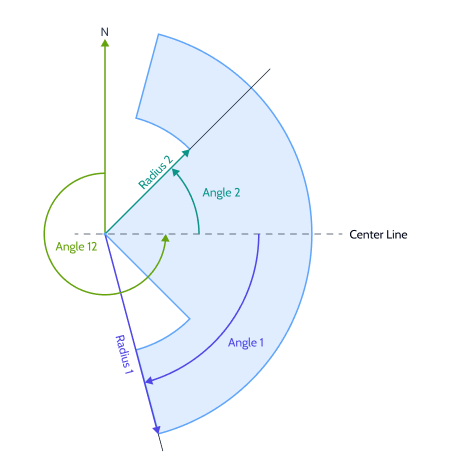
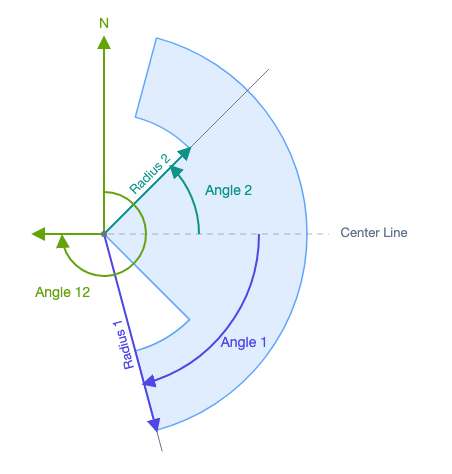
Specify default values for .cup format, include illustration (#18)
* Specify default values for .cup format, include illustration

* docs(cup): correct ObsZone defaults and A12 direction

Style defaults to symmetric, R1 and A1 defaults depend on the zone
shape, A12 is a clockwise bearing towards the turnpoint (zone at A12+180).
Explains how R1/A1/R2/A2 build the zone and the Line key.

* docs(cup): require Style, R1 and A1

Programs fill in missing zone values differently, so writers must
always write them. R2, A2 and A12 default to 0. Line=1 marks a line.
Bump spec to 1.2.2.

* docs(cup): redraw sector picture with clockwise A12

---------

diff --git a/CUP_file_format.md b/CUP_file_format.md
@@ -1,15 +1,15 @@
 ---
 title: SeeYou CUP file format 
 description: SeeYou CUP file format specification file, Copyright © 2024, Naviter d.o.o. All Rights Reserved
-date: 2026-11-03
-version: 1.2.1
+date: 2026-11-04
+version: 1.2.2
 header: ${title} - Naviter d.o.o.
 footer: Page ${pageNo} of ${pageCount}
 ---
 
 # SeeYou CUP File Format
 
-*Copyright © 2025-10-07, Naviter d.o.o. All Rights Reserved. Version 1.2.1*
+*Copyright © 2026-11-04, Naviter d.o.o. All Rights Reserved. Version 1.2.2*
 
 SeeYou CUP Waypoint format is a simple comma separated text file. The extension is .CUP
 
@@ -241,7 +241,7 @@ This defines first turnpoint (after takeoff). Format must be the same as for the
 
 ### Options and Observation Zones
 
-The line with the definition of the description and the list of task points is followed by "Task Options" line, this line is successively followed by "Observation Zone" lines for the turn points specified in the task above. Note that if any of the data is missing, default settings will be used instead. Here an example:
+The line with the definition of the description and the list of task points is followed by "Task Options" line, this line is successively followed by "Observation Zone" lines for the turn points specified in the task above. Some observation zone values are required, the others have defaults. See [Possible Values in Observation Zone Line](#possible-values-in-observation-zone-line). Here an example:
 
 ```
 Options,NoStart=12:34:56,TaskTime=01:45:12,WpDis=False,NearDis=0.7km,NearAlt=300.0m
@@ -293,27 +293,42 @@ Options line must start with "Options" keyword.
 
 #### Possible Values in Observation Zone Line
 
+Observation zone line must start with "ObsZone" keyword. `Style`, `R1` and `A1` are required, because programs fill in missing ones differently. The other values are optional.
+
+A task point without an Observation Zone line gets the default zone of the program that reads the file. In SeeYou these are the user's default zones.
+
+This schematic shows all the parameters available to define the shape of the turnpoint sector:
+
+![SectorDefinition](./images/SectorDefinition.png)
+
+The zone is built around a center line through the turnpoint. `Style` sets the direction of the center line. The zone is made of two parts:
+
+- the outer sector: between `R2` and `R1`, up to `A1` degrees on each side of the center line;
+- the inner sector: inside `R2`, up to `A2` degrees on each side of the center line.
+
+Distances are numbers with a unit, like `500m`, `3km` or `1.5nm`. A number without a unit is in meters. Angles are in degrees, decimals are allowed.
+
 - `ObsZone`
-  Consecutive number of a waypoint (0 = Start)
+  Consecutive number of the task point (0 = Start).
 - `Style`
-  Observation Zone Direction
-  - 0 - Fixed value
-  - 1 - Symmetrical
+  Required. Direction of the center line.
+  - 0 - Fixed, set by `A12`
+  - 1 - Symmetrical: the zone lies on the bisector of the incoming and outgoing legs, on the outside of the turn. At the start it works as "To next point", at the finish as "To previous point".
   - 2 - To next point
   - 3 - To previous point
   - 4 - To start point
 - `R1`
-  Radius 1
+  Required. Outer radius. When `Line=1`, this is half the length of the line.
 - `A1`
-  Angle 1 in degrees
+  Required. Half the angle of the outer sector, measured from the center line to each side. 45 gives a 90° (FAI) sector, 180 gives a full circle (cylinder).
 - `R2`
-  Radius 2
+  Inner radius. The outer sector starts at `R2`. The default value is 0, meaning the outer sector reaches all the way to the turnpoint.
 - `A2`
-  Angle 2 in degrees
+  Half the angle of the inner sector, inside `R2`. 180 makes the whole `R2` circle part of the zone. The default value is 0, meaning nothing inside `R2` is part of the zone.
 - `A12`
-  Angle 12
+  Used only when `Style=0`. Bearing of the center line, clockwise from north, pointing from the zone towards the turnpoint. The zone lies on the opposite side, at `A12` + 180. For example, `A12=0` puts the zone south of the turnpoint. The default value is 0.
 - `Line`
-  Boolean. Line=1 means that this observation zone is a line
+  `Line=1` means that this observation zone is a line through the turnpoint, at a right angle to the center line, `R1` long on each side. `A1`, `R2` and `A2` are ignored. Without `Line`, the observation zone is not a line.
 
 ### Multiple Starts
 
